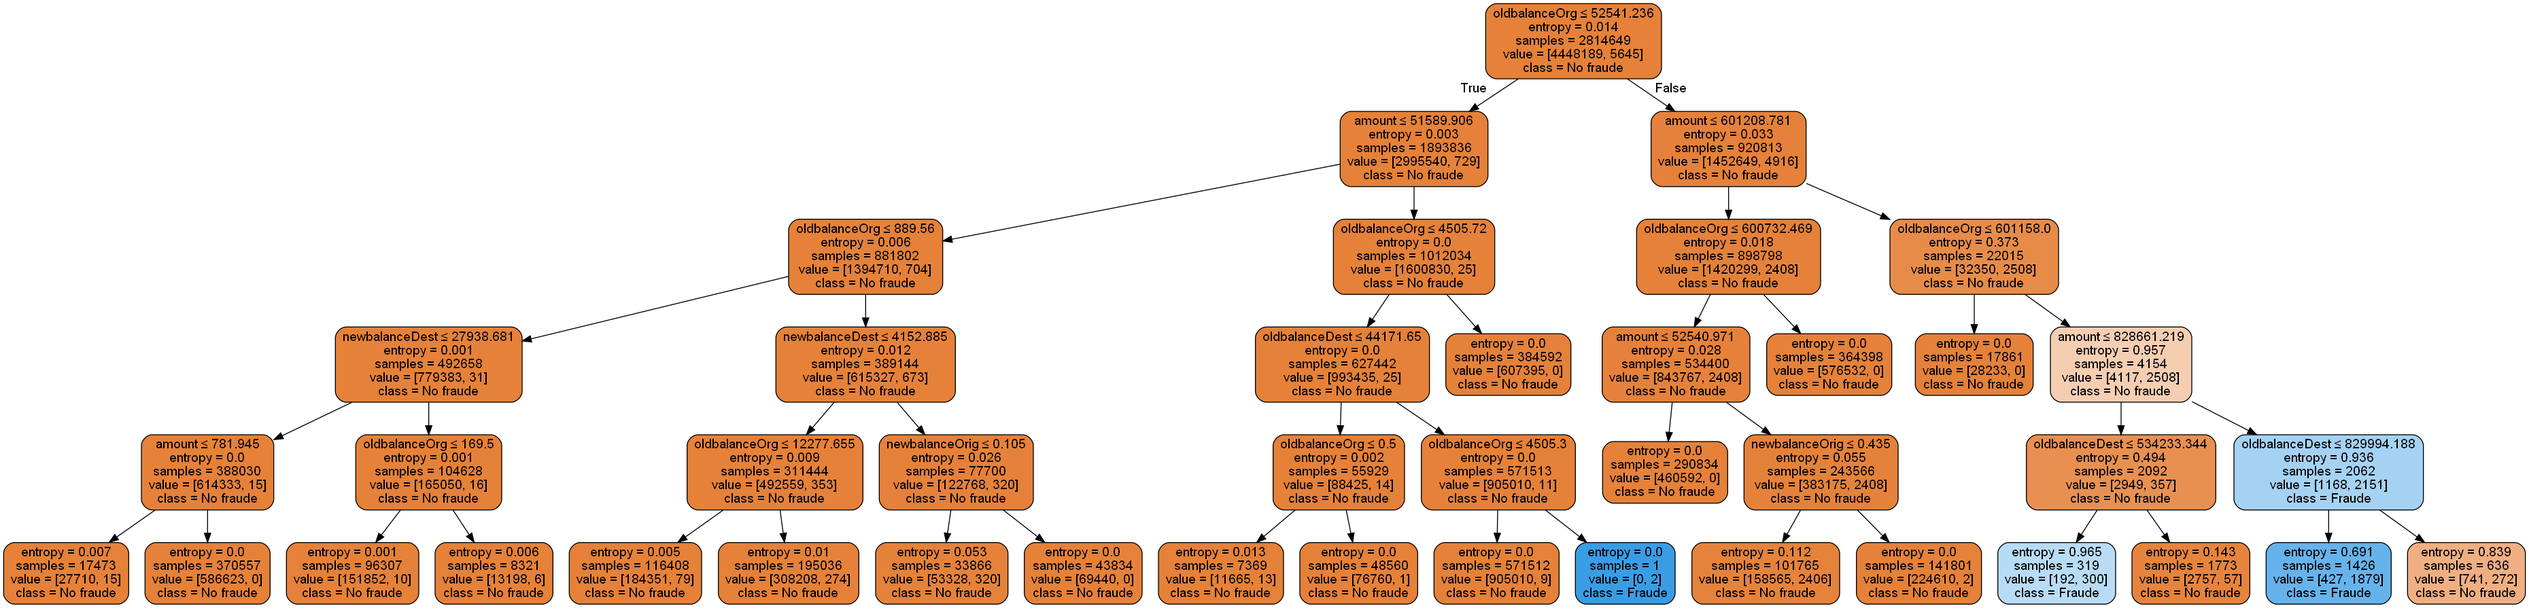
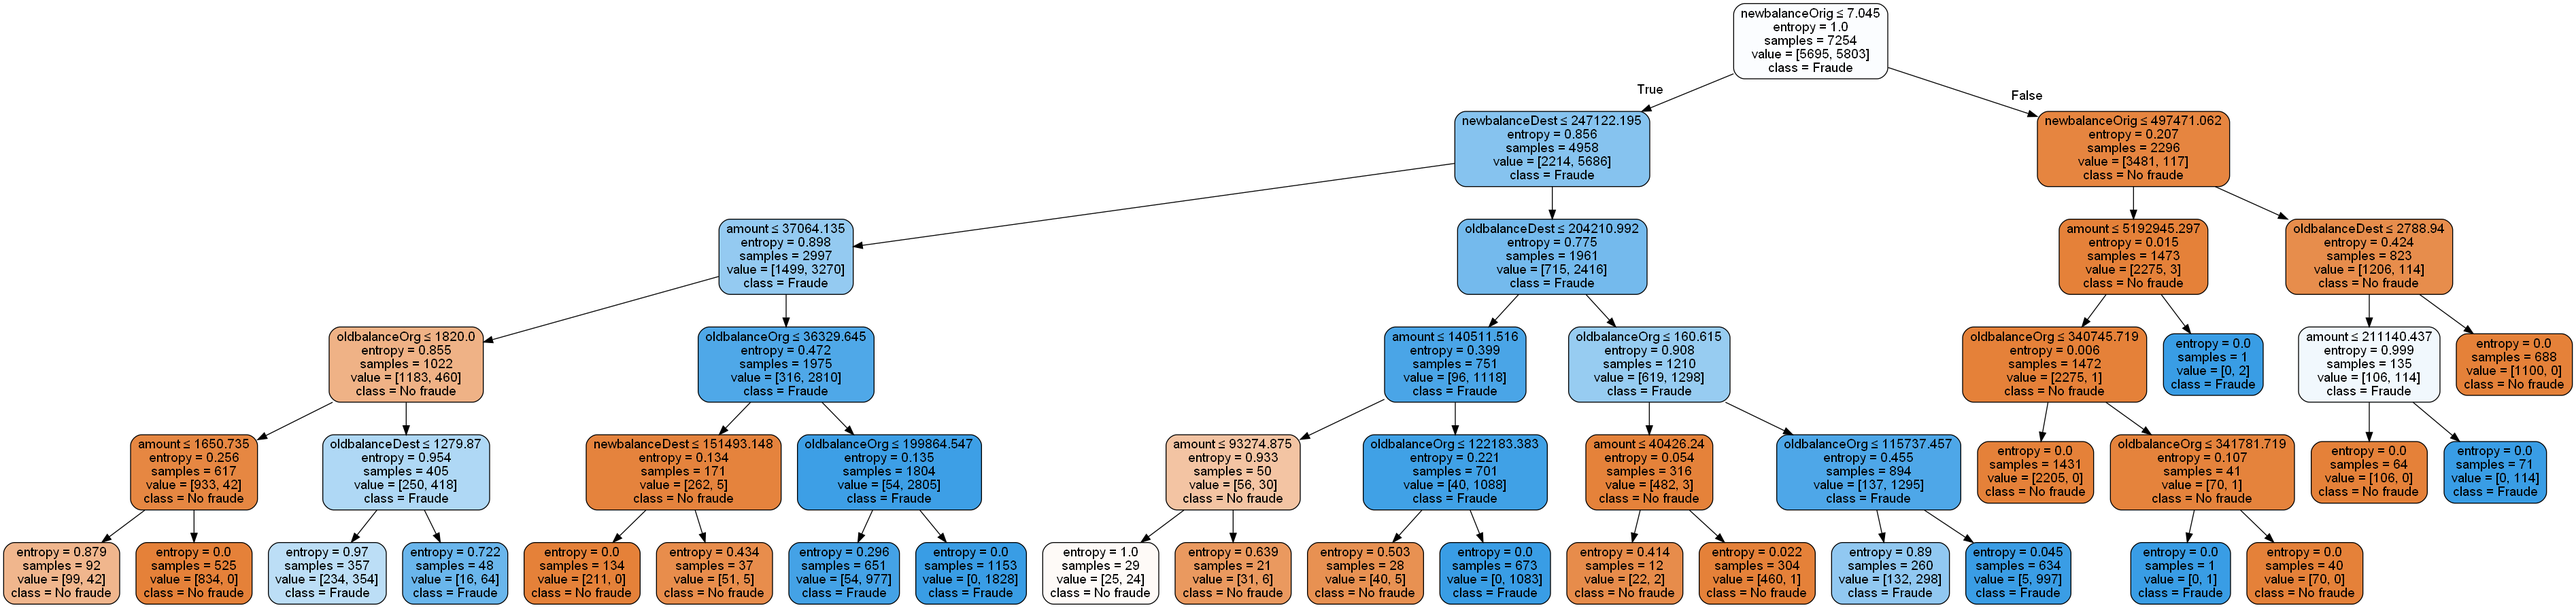
Balance
Balanceo de la DB , donde el 50% de datos es 0 y el otro es 1

diff --git a/tree.py b/tree.py
@@ -10,9 +10,18 @@ from sklearn.tree import DecisionTreeClassifier  # Import Decision Tree Classifi
 from sklearn.model_selection import train_test_split
 # Import scikit-learn metrics module for accuracy calculation
 from sklearn import metrics
-
+import time
+start_time = time.time()
 
 df = pd.read_csv('Fraud.csv')
+df = pd.read_csv('Fraud.csv')
+
+df_2 = df[df['isFraud'] == 0]
+df_3 = df_2.head(8213)
+
+df_1 = df[df['isFraud'] == 1]
+
+df = pd.concat([df_1, df_3])
 
 X = df[['amount', 'oldbalanceOrg', 'newbalanceOrig',
         'oldbalanceDest', 'newbalanceDest']]
@@ -40,3 +49,4 @@ export_graphviz(clf, out_file=dot_data,
 graph = pydotplus.graph_from_dot_data(dot_data.getvalue())
 graph.write_png('tree.png')
 Image(graph.create_png())
+print("--- %s seconds ---" % (time.time() - start_time))

diff --git a/random_forest.py b/random_forest.py
@@ -11,8 +11,17 @@ from IPython.display import Image
 from six import StringIO
 import pydotplus
 import os
-
+import time
+start_time = time.time()
 df = pd.read_csv('Fraud.csv')
+df = pd.read_csv('Fraud.csv')
+
+df_2 = df[df['isFraud'] == 0]
+df_3 = df_2.head(8213)
+
+df_1 = df[df['isFraud'] == 1]
+
+df = pd.concat([df_1, df_3])
 
 X = df[['amount', 'oldbalanceOrg', 'newbalanceOrig',
         'oldbalanceDest', 'newbalanceDest']]
@@ -45,3 +54,4 @@ export_graphviz(clf.estimators_[0], out_file=dot_data,
 graph = pydotplus.graph_from_dot_data(dot_data.getvalue())
 graph.write_png('RandomForest.png')
 Image(graph.create_png())
+print("--- %s seconds ---" % (time.time() - start_time))

diff --git a/isFraud.py b/isFraud.py
@@ -1,0 +1,10 @@
+import pandas as pd
+
+df = pd.read_csv('Fraud.csv')
+
+df_2 = df[df['isFraud'] == 0]
+df_3 = df_2.head(8213)
+
+df_1 = df[df['isFraud'] == 1]
+
+df = pd.concat([df_1, df_3])
